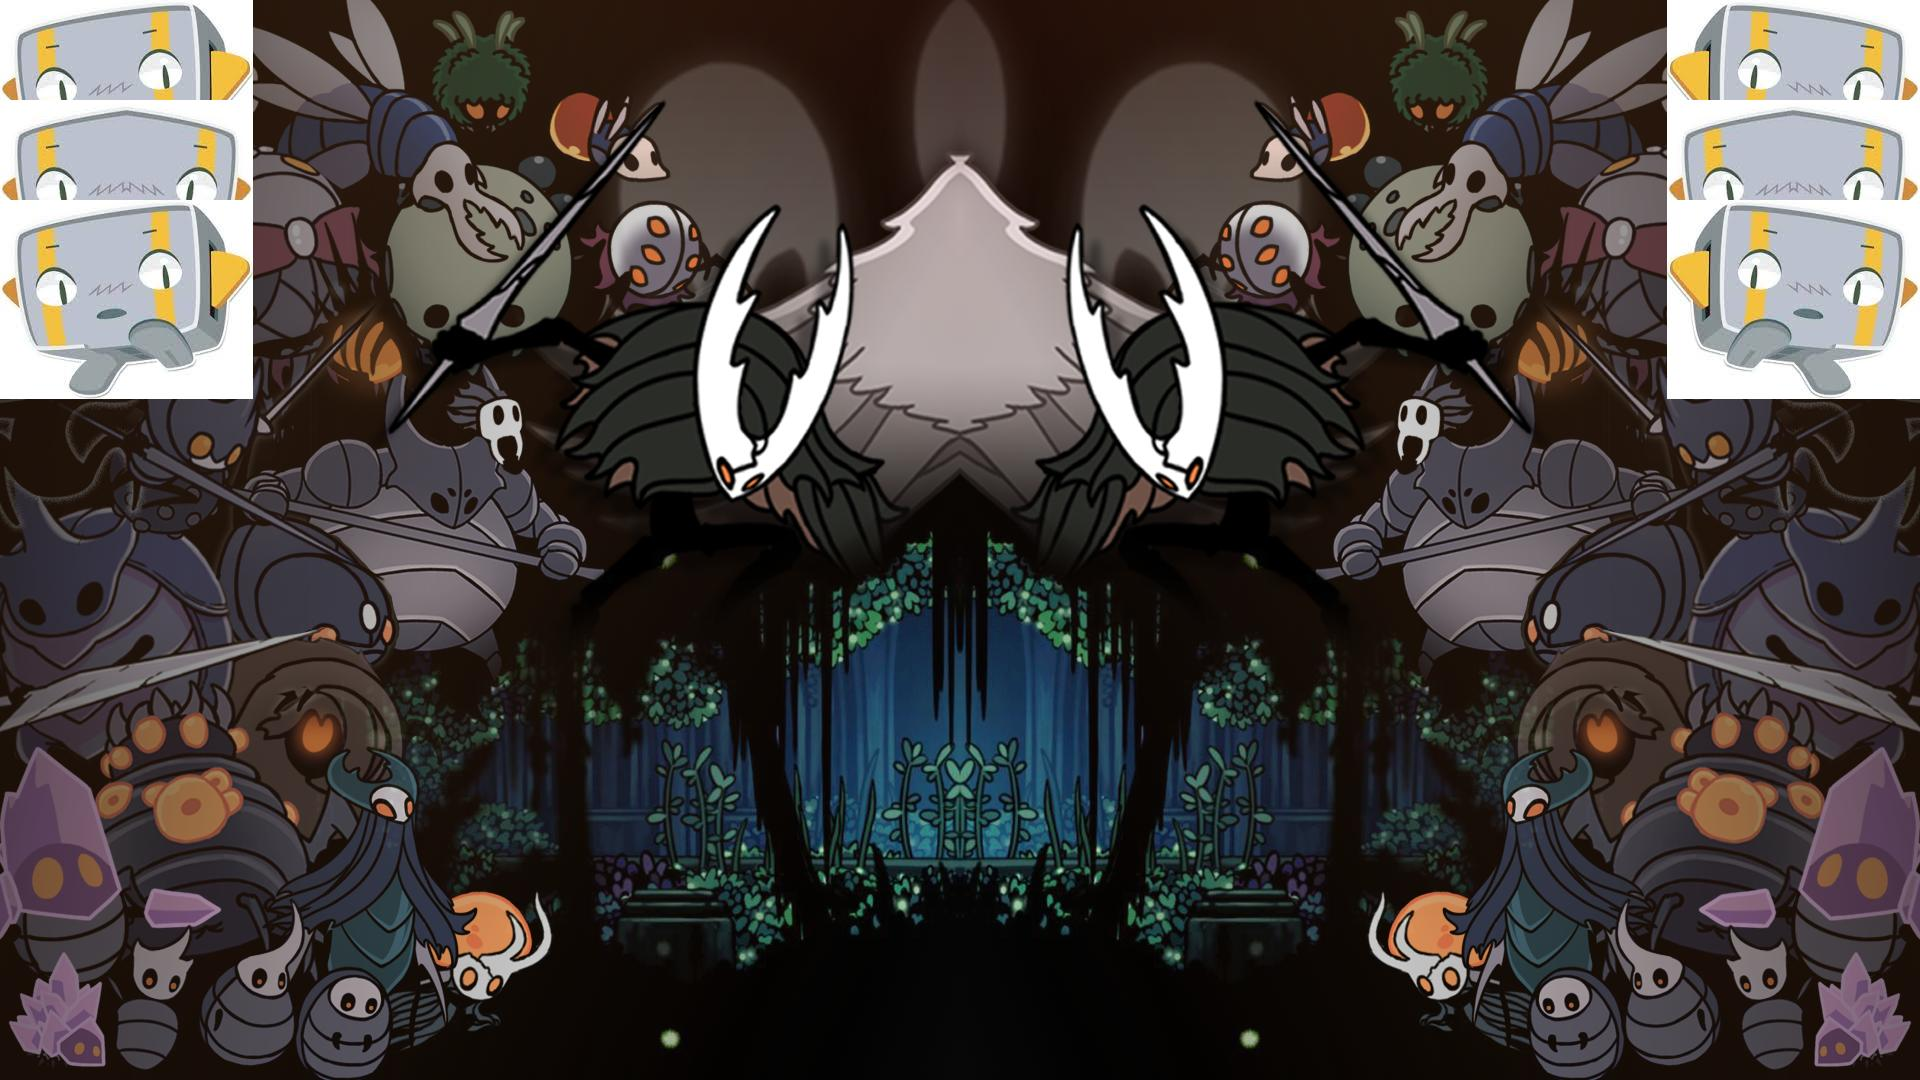
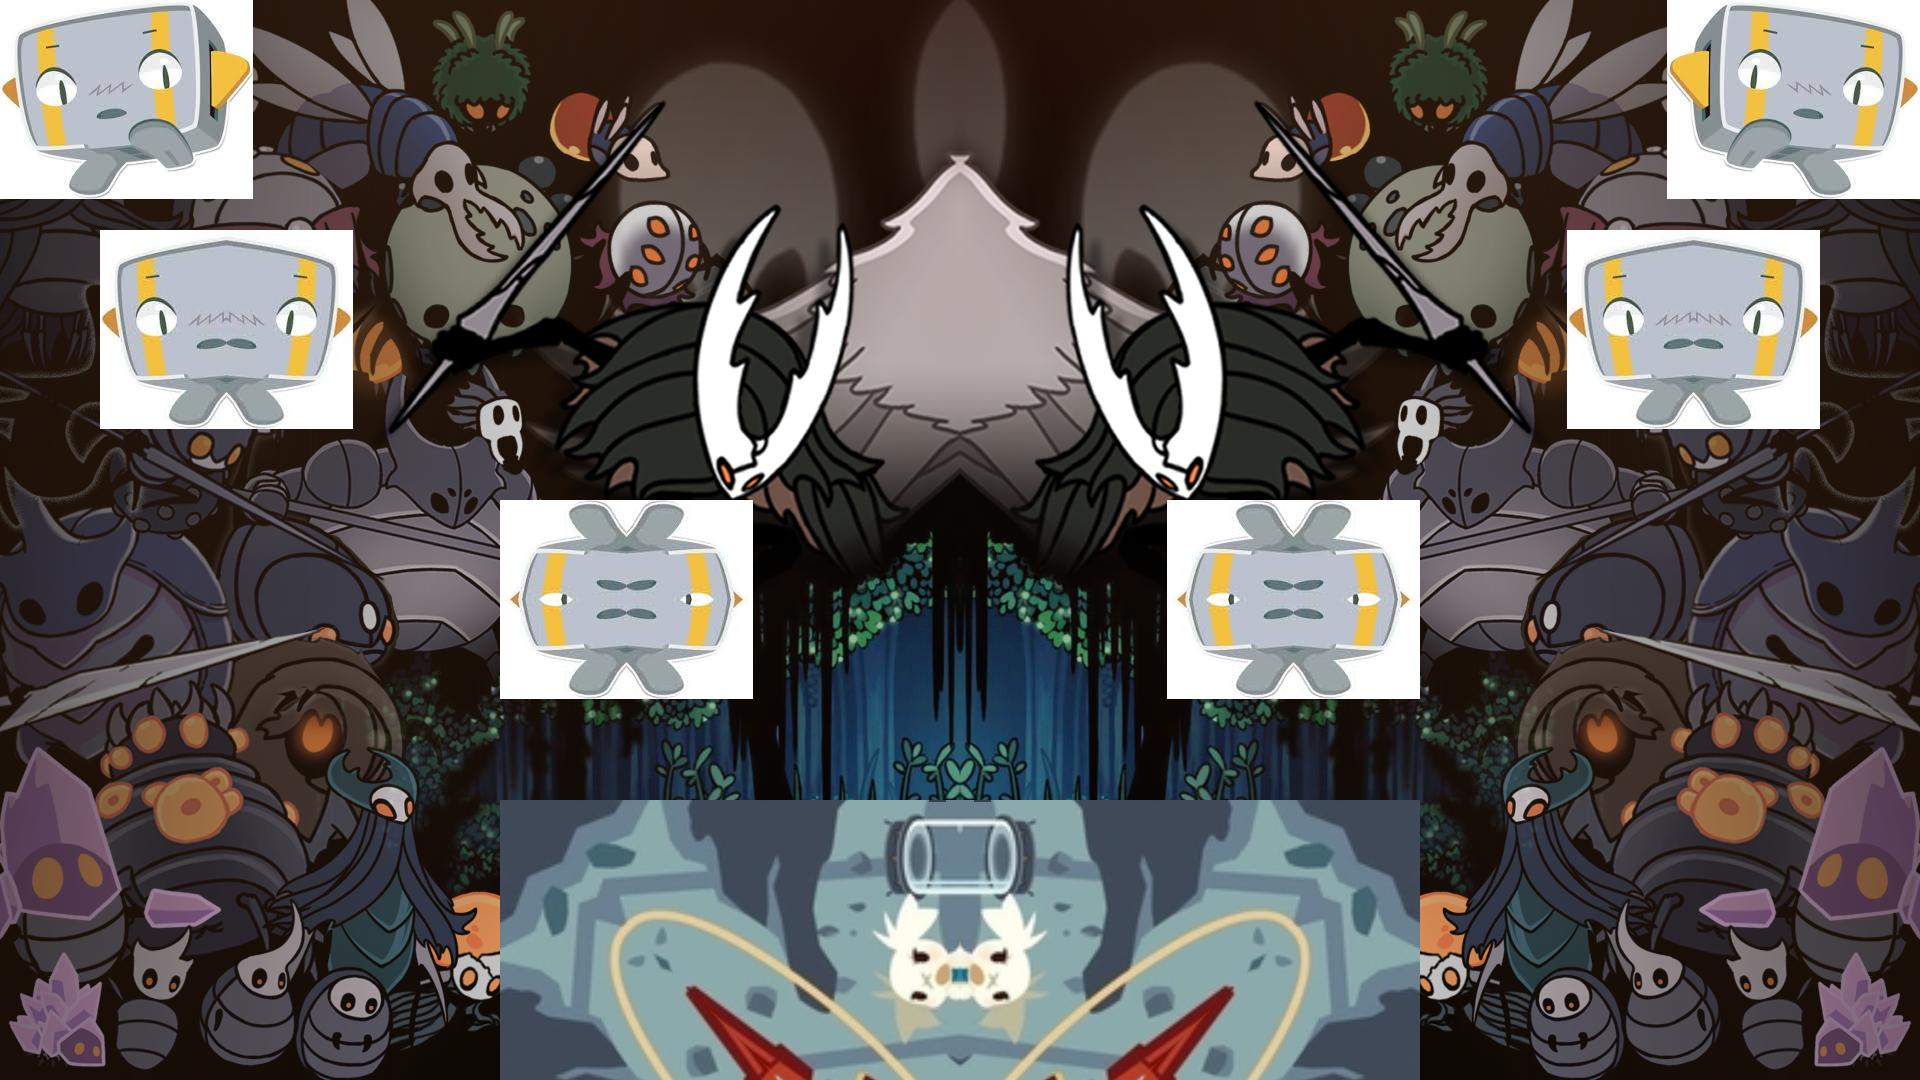
Edited myCollage()

diff --git a/pixlab/Picture.java b/pixlab/Picture.java
@@ -308,9 +308,11 @@ public class Picture extends SimplePicture {
         toPixel = toPixels[toRow][toCol];
         toPixel.setColor(fromPixel.getColor());
       }
-    }   
+    }
   }
-
+  
+  
+  
   /** Method to create a collage of several pictures */
   public void createCollage() {
     Picture flower1 = new Picture("flower1.jpg");
@@ -328,14 +330,16 @@ public class Picture extends SimplePicture {
   }
   
   public void myCollage() {
-    Picture balrog1 = new Picture("balrog.jfif");
-    Picture balrog2 = new Picture("balrog.jfif");
-    Picture balrogMirror = new Picture("balrog.jfif");
-    balrogMirror.mirrorVertical();
-    this.copy(balrog1,0,0);
-    this.copy(balrogMirror,100,0);
-    this.copy(balrog1,200,0);
-    this.copy(balrog2,200,0);
+    Picture balrog = new Picture("balrog.jfif");
+    Picture cavestory = new Picture("cavestory.png");
+    this.copy(balrog,0,0);
+    balrog.mirrorVertical();
+    this.copy(balrog,230,100);
+    balrog.mirrorHorizontalBotToTop();
+    this.copy(balrog,500,500);
+    balrog.mirrorHorizontal();
+    cavestory.mirrorDiagonal();
+    this.copy(cavestory,800,500);
     this.mirrorVertical();
     this.write("collage.jpg");
   }

diff --git a/pixlab/PictureTester.java b/pixlab/PictureTester.java
@@ -6,7 +6,7 @@
  * 
  * @author Barbara Ericson 
  */
-public class PictureTester extends Picture
+public class PictureTester
 {
   /** Method to test zeroBlue */
   public static void testZeroBlue()
@@ -125,6 +125,13 @@ public class PictureTester extends Picture
        water.fixUnderwater();
        water.explore();
     }
+    
+   public static void testCopy() {
+       Picture ocean = new Picture("beach.jpg");
+       Picture daddy = new Picture("snowman.jpg");
+       ocean.copy(daddy, 10, 10, 60, 160, 180, 220);
+       ocean.explore();
+    }
   
   /** Main method for testing.  Every class can have a main
     * method in Java */
@@ -149,7 +156,7 @@ public class PictureTester extends Picture
     testMirrorDiagonal();
     testCollage();
     testMyCollage();
-    //testCopy();
+    testCopy();
     testEdgeDetection();
     //testEdgeDetection2();
     //testChromakey();
